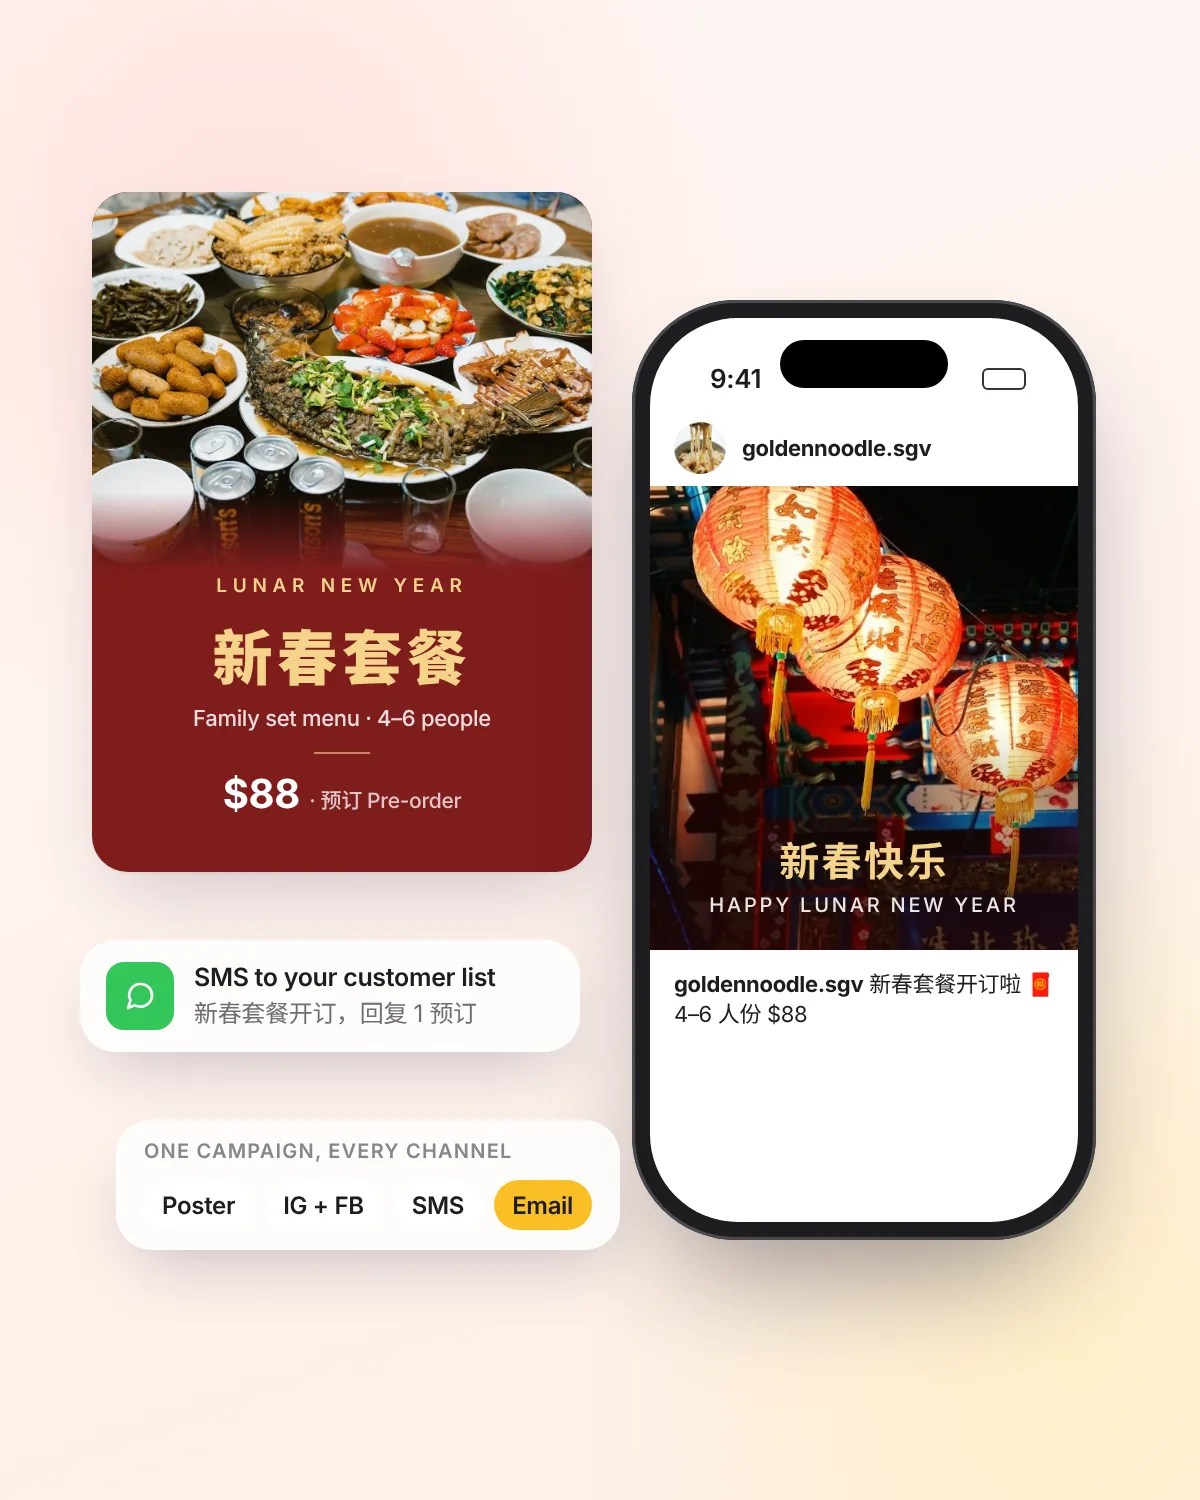
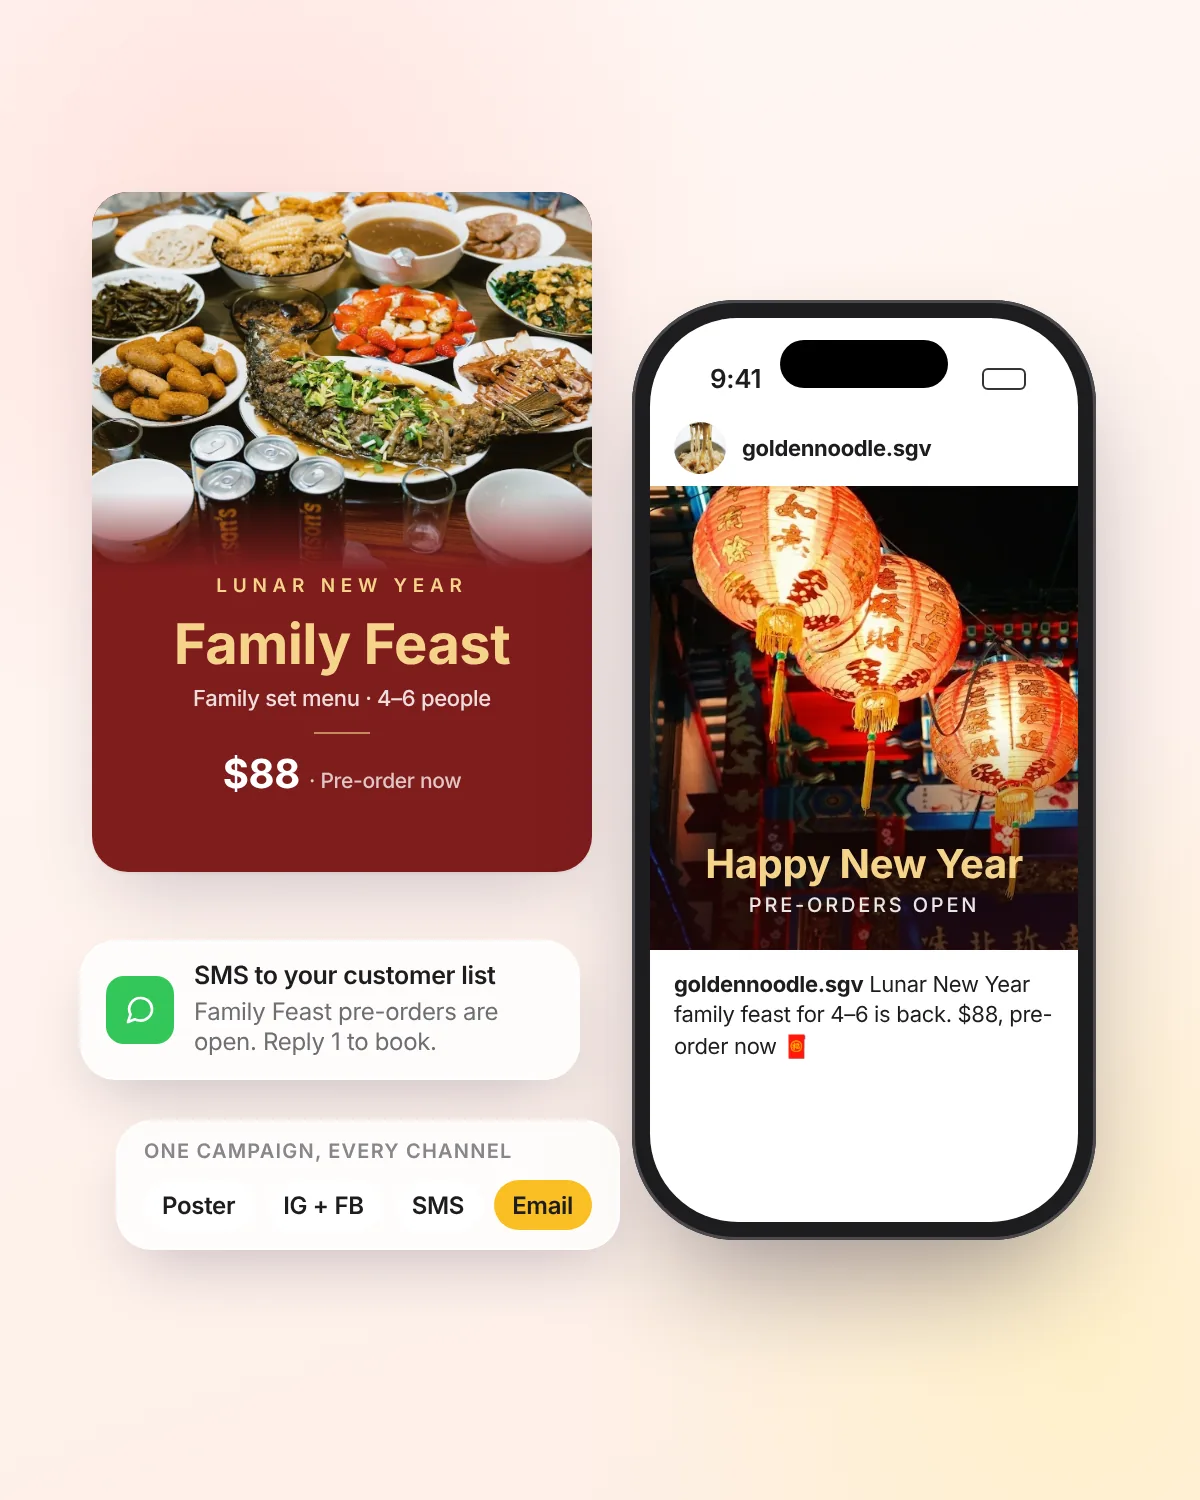
Switch food illustration text to English
Claude-Session: https://claude.ai/code/session_01Cmog4efrXzxGYNqZwkQE96

diff --git a/services-data.js b/services-data.js
@@ -48,7 +48,7 @@
                      L('Weekly optimization and new ad tests', '每周优化与新素材测试'),
                      L('Monthly report in English or Chinese', '中文或英文月度报告')],
           price: { from: 800, unit: 'mo' }, note: L('Google and Meta together $1,300/mo', 'Google + Meta 双平台 $1,300/月') },
-        { id: 'social', short: L('Social', '社媒'),  icon: 'share', img: 'images/services/social.webp?v=3', plan: 'social-mgmt', chiclet: true,
+        { id: 'social', short: L('Social', '社媒'),  icon: 'share', img: 'images/services/social.webp?v=4', plan: 'social-mgmt', chiclet: true,
           name: L('Social media', '社交媒体运营'),
           desc: L('Posting, captions and replies on Instagram, Facebook, TikTok and Xiaohongshu.',
                   'Instagram、Facebook、TikTok 和小红书的发布、文案与互动。'),
@@ -56,7 +56,7 @@
                      L('Captions in English and Chinese', '中英文文案'),
                      L('Comment and DM replies', '评论与私信回复')],
           price: { from: 500, unit: 'mo' }, note: L('Content creation +$500, full package $900/mo', '内容制作另加 $500，全包 $900/月') },
-        { id: 'email-sms', short: L('Email', '邮件'),  icon: 'mail', img: 'images/services/email-sms.webp?v=3', plan: 'email-starter', chiclet: true,
+        { id: 'email-sms', short: L('Email', '邮件'),  icon: 'mail', img: 'images/services/email-sms.webp?v=4', plan: 'email-starter', chiclet: true,
           name: L('Email & SMS', '邮件与短信营销'),
           desc: L('Campaigns and automated flows that keep in touch with past customers.',
                   '用营销邮件和自动化流程，和老客人保持联系。'),
@@ -102,7 +102,7 @@
                      L('Every size each platform needs', '各平台需要的尺寸全部做齐'),
                      L('English and Chinese versions', '中英文两个版本')],
           price: { from: 400, unit: 'mo' }, note: L('16 images $700/mo · single image $75', '16 张 $700/月 · 单张 $75') },
-        { id: 'holiday-promo', short: L('Holiday Promos', '节日促销'), icon: 'gift', img: 'images/services/holiday-promo.webp?v=3', plan: 'holiday-promo', chiclet: true,
+        { id: 'holiday-promo', short: L('Holiday Promos', '节日促销'), icon: 'gift', img: 'images/services/holiday-promo.webp?v=4', plan: 'holiday-promo', chiclet: true,
           name: L('Holiday promotion kit', '节日促销活动包'),
           desc: L('One holiday campaign designed across every channel: Lunar New Year, Mid-Autumn, Thanksgiving, Mother’s Day and more.',
                   '一个节日活动，所有渠道一起做好：春节、中秋、感恩节、母亲节等。'),
@@ -110,7 +110,7 @@
                      L('Instagram and Facebook posts in English and Chinese', 'Instagram 与 Facebook 中英文帖子'),
                      L('SMS and email copy for your customer list', '发给老客人的短信与邮件文案')],
           price: { from: 300, unit: 'campaign' }, note: L('Book about three weeks before the holiday', '建议节日前三周预订') },
-        { id: 'menu-poster', short: L('Menus & Posters', '菜单海报'), icon: 'menu', img: 'images/services/menu-poster.webp?v=3', plan: 'menu-poster', chiclet: true,
+        { id: 'menu-poster', short: L('Menus & Posters', '菜单海报'), icon: 'menu', img: 'images/services/menu-poster.webp?v=4', plan: 'menu-poster', chiclet: true,
           name: L('Menu and poster design', '菜单与海报设计'),
           desc: L('Bilingual menus, table QR stands and in-store posters, delivered as print-ready files.',
                   '中英双语菜单、桌面扫码点餐牌和店内海报，交付可直接印刷的文件。'),

diff --git a/index.html b/index.html
@@ -23,7 +23,7 @@
   <link rel="preconnect" href="https://fonts.gstatic.com" crossorigin>
   <link rel="stylesheet" href="https://fonts.googleapis.com/css2?family=Inter:wght@400;500;600;700;800&family=Noto+Sans+SC:wght@400;500;700&display=swap">
 
-  <link rel="stylesheet" href="styles.css?v=20261024g" />
+  <link rel="stylesheet" href="styles.css?v=20261024h" />
 </head>
 <body data-page="home">
   <a class="skip" href="#main">Skip to content</a>
@@ -335,10 +335,10 @@
   <script src="https://cdnjs.cloudflare.com/ajax/libs/gsap/3.12.5/gsap.min.js"></script>
   <script src="https://cdnjs.cloudflare.com/ajax/libs/gsap/3.12.5/ScrollTrigger.min.js"></script>
   <script src="https://cdn.jsdelivr.net/npm/lenis@1.1.13/dist/lenis.min.js"></script>
-  <script src="services-data.js?v=20261024g"></script>
-  <script src="apps-showcase.js?v=20261024g"></script>
-  <script src="site.js?v=20261024g"></script>
-  <script src="app.js?v=20261024g"></script>
-  <script src="motion.js?v=20261024g"></script>
+  <script src="services-data.js?v=20261024h"></script>
+  <script src="apps-showcase.js?v=20261024h"></script>
+  <script src="site.js?v=20261024h"></script>
+  <script src="app.js?v=20261024h"></script>
+  <script src="motion.js?v=20261024h"></script>
 </body>
 </html>

diff --git a/apps.html b/apps.html
@@ -18,7 +18,7 @@
   <link rel="preconnect" href="https://fonts.googleapis.com">
   <link rel="preconnect" href="https://fonts.gstatic.com" crossorigin>
   <link rel="stylesheet" href="https://fonts.googleapis.com/css2?family=Inter:wght@400;500;600;700;800&family=Noto+Sans+SC:wght@400;500;700&display=swap">
-  <link rel="stylesheet" href="styles.css?v=20261024g" />
+  <link rel="stylesheet" href="styles.css?v=20261024h" />
 </head>
 <body data-page="apps">
   <a class="skip" href="#page">Skip to content</a>
@@ -29,9 +29,9 @@
   <script src="https://cdnjs.cloudflare.com/ajax/libs/gsap/3.12.5/gsap.min.js"></script>
   <script src="https://cdnjs.cloudflare.com/ajax/libs/gsap/3.12.5/ScrollTrigger.min.js"></script>
   <script src="https://cdn.jsdelivr.net/npm/lenis@1.1.13/dist/lenis.min.js"></script>
-  <script src="services-data.js?v=20261024g"></script>
-  <script src="apps-showcase.js?v=20261024g"></script>
-  <script src="site.js?v=20261024g"></script>
-  <script src="page.js?v=20261024g"></script>
+  <script src="services-data.js?v=20261024h"></script>
+  <script src="apps-showcase.js?v=20261024h"></script>
+  <script src="site.js?v=20261024h"></script>
+  <script src="page.js?v=20261024h"></script>
 </body>
 </html>

diff --git a/marketing.html b/marketing.html
@@ -18,7 +18,7 @@
   <link rel="preconnect" href="https://fonts.googleapis.com">
   <link rel="preconnect" href="https://fonts.gstatic.com" crossorigin>
   <link rel="stylesheet" href="https://fonts.googleapis.com/css2?family=Inter:wght@400;500;600;700;800&family=Noto+Sans+SC:wght@400;500;700&display=swap">
-  <link rel="stylesheet" href="styles.css?v=20261024g" />
+  <link rel="stylesheet" href="styles.css?v=20261024h" />
 </head>
 <body data-page="marketing">
   <a class="skip" href="#page">Skip to content</a>
@@ -29,8 +29,8 @@
   <script src="https://cdnjs.cloudflare.com/ajax/libs/gsap/3.12.5/gsap.min.js"></script>
   <script src="https://cdnjs.cloudflare.com/ajax/libs/gsap/3.12.5/ScrollTrigger.min.js"></script>
   <script src="https://cdn.jsdelivr.net/npm/lenis@1.1.13/dist/lenis.min.js"></script>
-  <script src="services-data.js?v=20261024g"></script>
-  <script src="site.js?v=20261024g"></script>
-  <script src="page.js?v=20261024g"></script>
+  <script src="services-data.js?v=20261024h"></script>
+  <script src="site.js?v=20261024h"></script>
+  <script src="page.js?v=20261024h"></script>
 </body>
 </html>

diff --git a/creative.html b/creative.html
@@ -18,7 +18,7 @@
   <link rel="preconnect" href="https://fonts.googleapis.com">
   <link rel="preconnect" href="https://fonts.gstatic.com" crossorigin>
   <link rel="stylesheet" href="https://fonts.googleapis.com/css2?family=Inter:wght@400;500;600;700;800&family=Noto+Sans+SC:wght@400;500;700&display=swap">
-  <link rel="stylesheet" href="styles.css?v=20261024g" />
+  <link rel="stylesheet" href="styles.css?v=20261024h" />
 </head>
 <body data-page="creative">
   <a class="skip" href="#page">Skip to content</a>
@@ -29,8 +29,8 @@
   <script src="https://cdnjs.cloudflare.com/ajax/libs/gsap/3.12.5/gsap.min.js"></script>
   <script src="https://cdnjs.cloudflare.com/ajax/libs/gsap/3.12.5/ScrollTrigger.min.js"></script>
   <script src="https://cdn.jsdelivr.net/npm/lenis@1.1.13/dist/lenis.min.js"></script>
-  <script src="services-data.js?v=20261024g"></script>
-  <script src="site.js?v=20261024g"></script>
-  <script src="page.js?v=20261024g"></script>
+  <script src="services-data.js?v=20261024h"></script>
+  <script src="site.js?v=20261024h"></script>
+  <script src="page.js?v=20261024h"></script>
 </body>
 </html>

diff --git a/privacy.html b/privacy.html
@@ -11,7 +11,7 @@
   <link rel="preconnect" href="https://fonts.googleapis.com">
   <link rel="preconnect" href="https://fonts.gstatic.com" crossorigin>
   <link rel="stylesheet" href="https://fonts.googleapis.com/css2?family=Inter:wght@400;500;600;700;800&family=Noto+Sans+SC:wght@400;500;700&display=swap">
-  <link rel="stylesheet" href="styles.css?v=20261024g" />
+  <link rel="stylesheet" href="styles.css?v=20261024h" />
 </head>
 <body data-page="legal">
   <a class="skip" href="#page">Skip to content</a>
@@ -74,7 +74,7 @@
   </main>
   <footer class="footer" id="siteFooter"></footer>
 
-  <script src="services-data.js?v=20261024g"></script>
-  <script src="site.js?v=20261024g"></script>
+  <script src="services-data.js?v=20261024h"></script>
+  <script src="site.js?v=20261024h"></script>
 </body>
 </html>

diff --git a/terms.html b/terms.html
@@ -11,7 +11,7 @@
   <link rel="preconnect" href="https://fonts.googleapis.com">
   <link rel="preconnect" href="https://fonts.gstatic.com" crossorigin>
   <link rel="stylesheet" href="https://fonts.googleapis.com/css2?family=Inter:wght@400;500;600;700;800&family=Noto+Sans+SC:wght@400;500;700&display=swap">
-  <link rel="stylesheet" href="styles.css?v=20261024g" />
+  <link rel="stylesheet" href="styles.css?v=20261024h" />
 </head>
 <body data-page="legal">
   <a class="skip" href="#page">Skip to content</a>
@@ -84,7 +84,7 @@
   </main>
   <footer class="footer" id="siteFooter"></footer>
 
-  <script src="services-data.js?v=20261024g"></script>
-  <script src="site.js?v=20261024g"></script>
+  <script src="services-data.js?v=20261024h"></script>
+  <script src="site.js?v=20261024h"></script>
 </body>
 </html>
